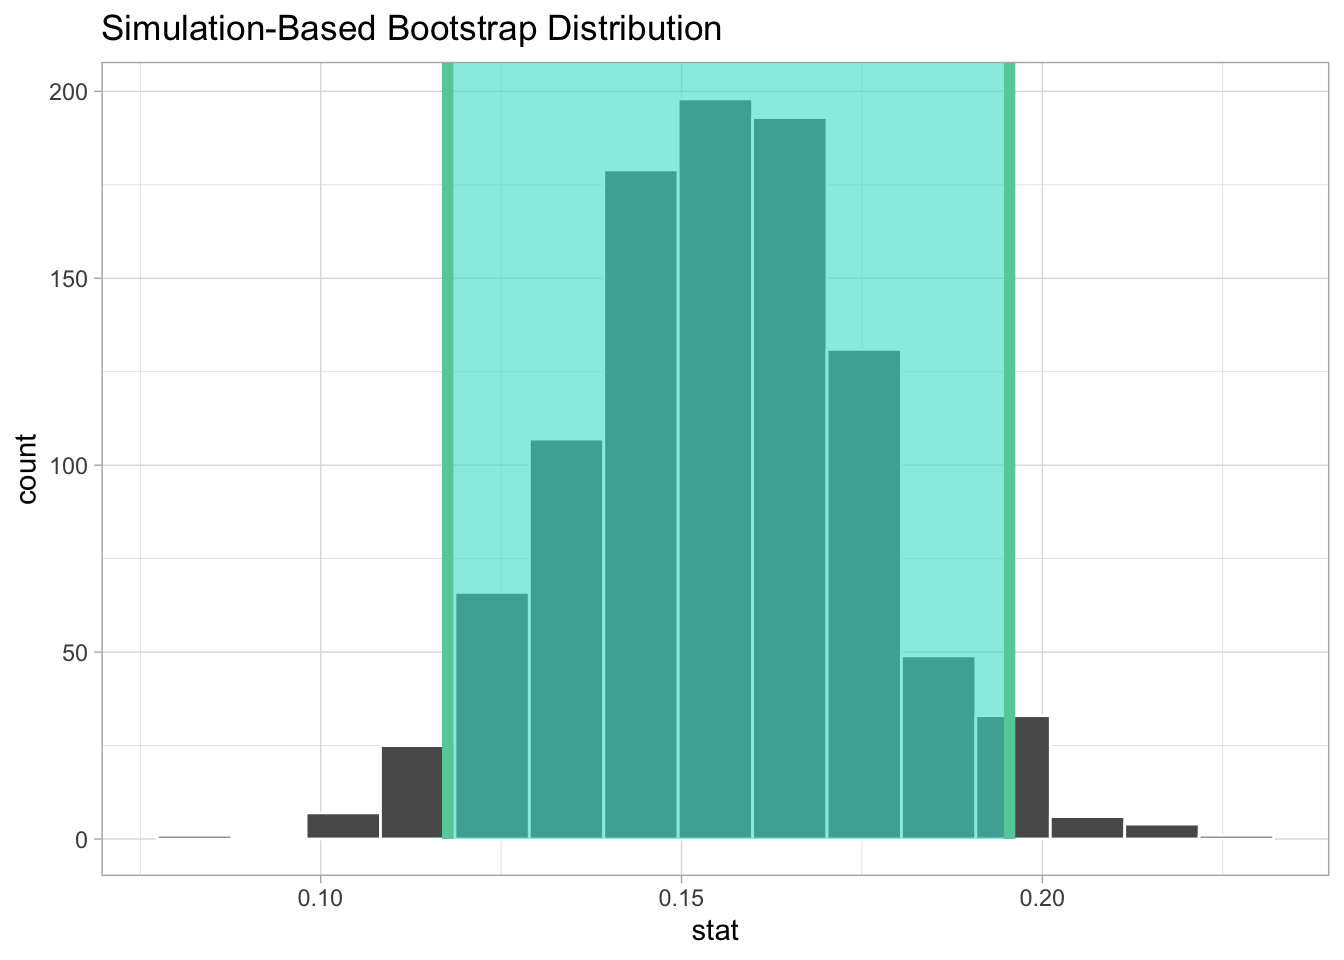
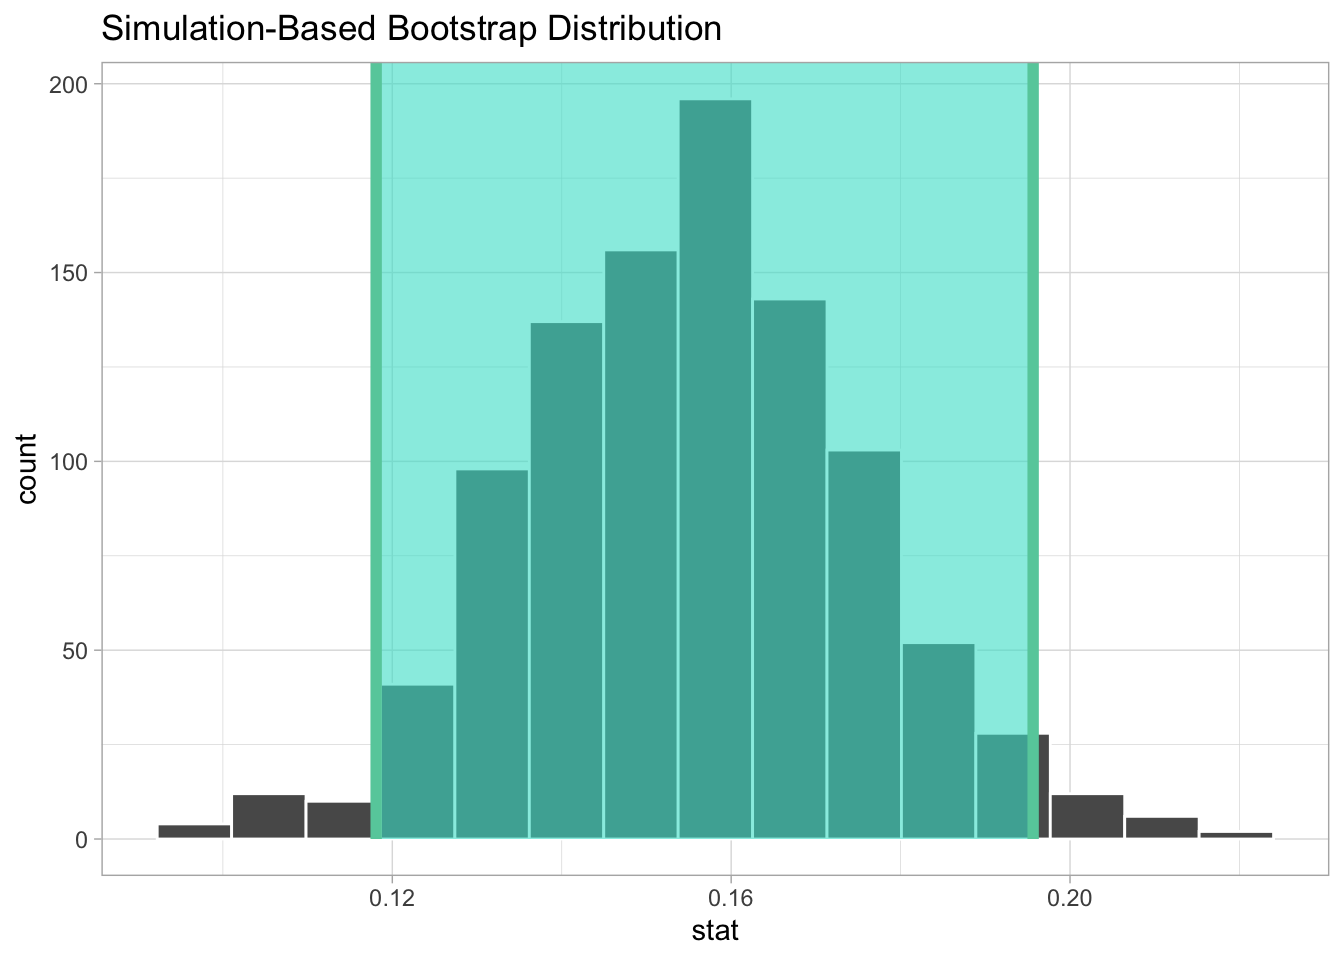
No real changes

diff --git a/Week 6 Exercises/Exercise_06.html b/Week 6 Exercises/Exercise_06.html
@@ -155,7 +155,7 @@ For the panel data and documentation, type e.g. data(gss_panel08_long) and data(
 <span id="cb4-12"><a href="#cb4-12" aria-hidden="true" tabindex="-1"></a><span class="co"># probability of observing p=0.53 under the null:</span></span>
 <span id="cb4-13"><a href="#cb4-13" aria-hidden="true" tabindex="-1"></a>num_obs_of_point53_null<span class="sc">/</span><span class="dv">1000</span></span></code><button title="Copy to Clipboard" class="code-copy-button"><i class="bi"></i></button></pre></div>
 <div class="cell-output cell-output-stdout">
-<pre><code>[1] 0.032</code></pre>
+<pre><code>[1] 0.04</code></pre>
 </div>
 </div>
 <p>What is the probability of observing prop_hat under the null? Is this statistically significant if the confidence level (alpha) is set to 0.05?</p>
@@ -165,7 +165,7 @@ For the panel data and documentation, type e.g. data(gss_panel08_long) and data(
 <span id="cb6-3"><a href="#cb6-3" aria-hidden="true" tabindex="-1"></a>prop_hat <span class="ot">&lt;-</span> <span class="fu">mean</span>(one_dataset)</span>
 <span id="cb6-4"><a href="#cb6-4" aria-hidden="true" tabindex="-1"></a>prop_hat</span></code><button title="Copy to Clipboard" class="code-copy-button"><i class="bi"></i></button></pre></div>
 <div class="cell-output cell-output-stdout">
-<pre><code>[1] 0.529</code></pre>
+<pre><code>[1] 0.512</code></pre>
 </div>
 <div class="sourceCode cell-code" id="cb8"><pre class="sourceCode r code-with-copy"><code class="sourceCode r"><span id="cb8-1"><a href="#cb8-1" aria-hidden="true" tabindex="-1"></a><span class="co"># gett null</span></span>
 <span id="cb8-2"><a href="#cb8-2" aria-hidden="true" tabindex="-1"></a>draws <span class="ot">&lt;-</span> <span class="fu">rbinom</span>(<span class="fl">1e4</span>, <span class="at">size =</span> <span class="dv">1000</span>, <span class="at">prob =</span> <span class="fl">0.50</span>)</span>
@@ -176,7 +176,7 @@ For the panel data and documentation, type e.g. data(gss_panel08_long) and data(
 <span id="cb8-7"><a href="#cb8-7" aria-hidden="true" tabindex="-1"></a>probability <span class="ot">&lt;-</span> <span class="fu">sum</span>(null <span class="sc">==</span> prop_hat) <span class="sc">/</span> <span class="fu">length</span>(null)</span>
 <span id="cb8-8"><a href="#cb8-8" aria-hidden="true" tabindex="-1"></a>probability</span></code><button title="Copy to Clipboard" class="code-copy-button"><i class="bi"></i></button></pre></div>
 <div class="cell-output cell-output-stdout">
-<pre><code>[1] 0.0045</code></pre>
+<pre><code>[1] 0.0168</code></pre>
 </div>
 <div class="sourceCode cell-code" id="cb10"><pre class="sourceCode r code-with-copy"><code class="sourceCode r"><span id="cb10-1"><a href="#cb10-1" aria-hidden="true" tabindex="-1"></a><span class="co"># Check for significance if alpha = 0.05 </span></span>
 <span id="cb10-2"><a href="#cb10-2" aria-hidden="true" tabindex="-1"></a>alpha <span class="ot">&lt;-</span> <span class="fl">0.05</span></span>
@@ -208,7 +208,7 @@ For the panel data and documentation, type e.g. data(gss_panel08_long) and data(
 <span id="cb12-13"><a href="#cb12-13" aria-hidden="true" tabindex="-1"></a>standard_error_using_sd_function<span class="ot">&lt;-</span><span class="fu">sd</span>(theta_distribution)</span>
 <span id="cb12-14"><a href="#cb12-14" aria-hidden="true" tabindex="-1"></a>standard_error_using_sd_function</span></code><button title="Copy to Clipboard" class="code-copy-button"><i class="bi"></i></button></pre></div>
 <div class="cell-output cell-output-stdout">
-<pre><code>[1] 0.06882797</code></pre>
+<pre><code>[1] 0.06873658</code></pre>
 </div>
 <div class="sourceCode cell-code" id="cb14"><pre class="sourceCode r code-with-copy"><code class="sourceCode r"><span id="cb14-1"><a href="#cb14-1" aria-hidden="true" tabindex="-1"></a>standard_error_using_formula<span class="ot">&lt;-</span><span class="fu">sqrt</span>((p1 <span class="sc">*</span> (<span class="dv">1</span> <span class="sc">-</span> p1) <span class="sc">/</span> n1) <span class="sc">+</span> (p2 <span class="sc">*</span> (<span class="dv">1</span> <span class="sc">-</span> p2) <span class="sc">/</span> n2))</span>
 <span id="cb14-2"><a href="#cb14-2" aria-hidden="true" tabindex="-1"></a>standard_error_using_formula</span></code><button title="Copy to Clipboard" class="code-copy-button"><i class="bi"></i></button></pre></div>
@@ -442,7 +442,7 @@ $ polviews &lt;dbl&gt; 6, 5, 4, 7, 3, 4, 5, 4, 6, 4, 4, 3, 2, 5, 2, 6, 2, 4, 6, 
 <pre><code># A tibble: 1 × 2
   lower_ci upper_ci
      &lt;dbl&gt;    &lt;dbl&gt;
-1    0.118    0.195</code></pre>
+1    0.118    0.196</code></pre>
 </div>
 <div class="sourceCode cell-code" id="cb30"><pre class="sourceCode r code-with-copy"><code class="sourceCode r"><span id="cb30-1"><a href="#cb30-1" aria-hidden="true" tabindex="-1"></a>boot_dist <span class="sc">|&gt;</span> </span>
 <span id="cb30-2"><a href="#cb30-2" aria-hidden="true" tabindex="-1"></a>  <span class="fu">visualize</span>() <span class="sc">+</span></span>
